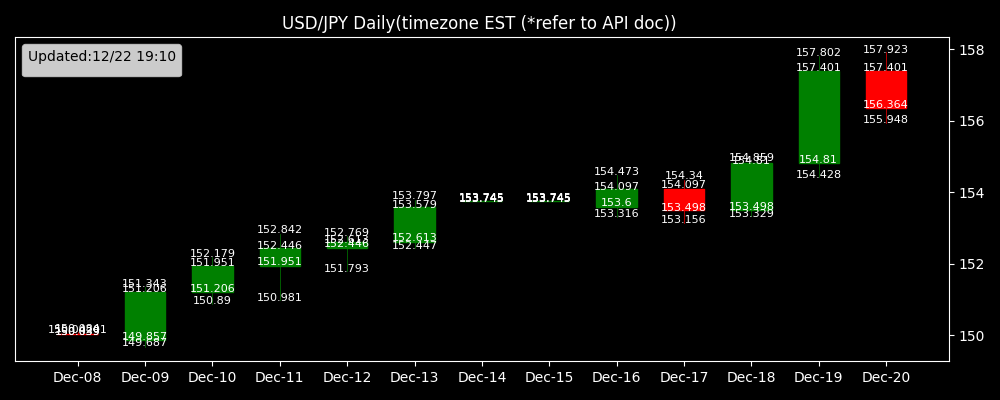
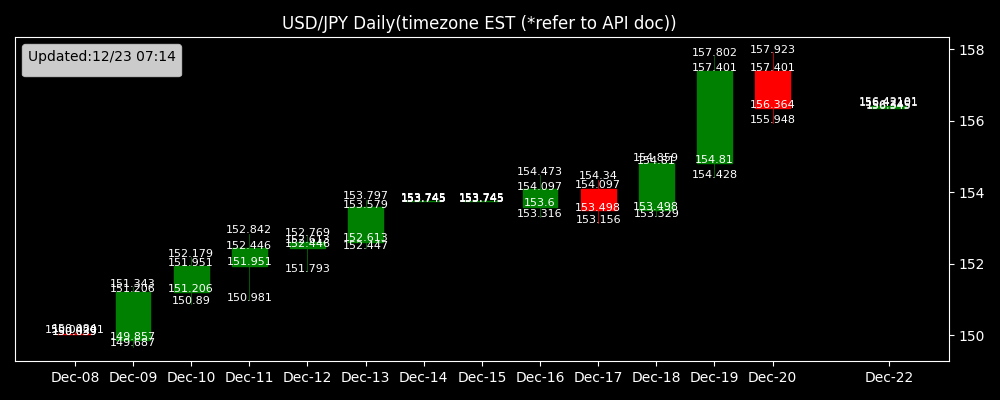
deploy: f38e8990050a8eed99aa18ff8d22eba5ad35ea92

diff --git a/docs/src/dashboard/marketinfo.html b/docs/src/dashboard/marketinfo.html
@@ -14,25 +14,12 @@
     </style>
 </head>
 <body>
-    <h3> 概況 (更新： 12/22 19:10 ) </h3>
-    <p>以下に示す為替の動向は、2024年12月8日から12月20日までの期間にわたる市場の変動を分析したものです。
+    <h3> 概況 (更新： 12/23 07:14 ) </h3>
+    <p>為替の状況を分析すると、2024年12月初旬から中旬にかけて、徐々に上昇するトレンドが見受けられる。この期間の始めには150.039であった為替レートは、最終的に156.42101まで上昇している。特に12月19日と20日の間で大きなボラティリティが見られ、157.923まで上昇した後、一旦156.364に戻っている。この間の交易量も高めであり、市場参加者が多かったことが推察される。
 
-1. **全体のトレンド**:
-   - この期間中、為替レートは150.039から始まり、最終的に156.364で終わっています。総じて上昇トレンドが見られますが、日々の変動には明確な上昇と下落の波が交錯しています。
+この為替の上昇にはいくつかの要因が関連している可能性がある。グローバルな経済ニュースによると、年末にかけて多くの国で金融政策の変化が起こっており、特に主要中央銀行の政策変更が為替に影響している可能性がある。また、国際的な貿易の動向や地政学的リスクの変化が投資家心理に影響を与え、市場にボラティリティをもたらしているかもしれない。
 
-2. **取引量**:
-   - 特に12月12日に取引量が大きく増加しており(750,356)、これが市場に何らかの影響を与えた可能性があります。その後の数日は比較的取引量が少なく、徐々に落ち着きを取り戻しています。
-
-3. **注目の値動き**:
-   - 12月19日と20日には、高値と低値の差が大きくなっており、市場におけるボラティリティが上昇しています。この時期には重要な経済指標の発表や地政学的なイベントが影響を与えた可能性があります。
-
-4. **外部要因**:
-   - 年末に向けて、世界的な経済状況の変化や、主要国の中央銀行の金融政策が為替レートに影響を及ぼしていると考えられます。また、20日に見られる高いボラティリティは、クリスマス休暇を前にしたポジション調整かもしれません。
-
-5. **今後の展望**:
-   - 短期的には、年末の流動性の低下が見られる可能性があり、これがボラティリティを一時的に影響させるかもしれません。また、2025年初頭に注目される政策発表や経済データが、このトレンドの転換点となる可能性を示唆しています。
-
-この分析は過去のデータに基づくものであり、実際の市場の動きは予測が難しいことを認識する必要があります。ニュースの更新や経済指標の発表を常に参照し、市場の変動に対する理解を深めることが重要です。</p>
+加えて、12月の中旬には、交易量が急増しており、これは年末のポジション調整や確定申告に伴う動きが背景にあるかもしれない。このような短期的な市場の動きは、不確実性があるものの、関連する要因を考慮しながらリスク管理が求められる状況である。</p>
 
     <p>Text generated from ChatGPT API.</p>
 

diff --git a/docs/src/dashboard/forecast_text.html b/docs/src/dashboard/forecast_text.html
@@ -5,10 +5,10 @@
     
 </head>
 <body>
-    <h3>今日の天気 (12-22 Sun)</h3>
-    <p>12月22日の天気をお知らせします。この日の気温は、一日を通して4.0°Cから9.6°Cの間で変動し、降水はありません。天候は概ね晴れで、午後一時的に曇ることがあります（午後15時と16時の間）。日照時間は8時間44分ほどと予想されています。
+    <h3>今日の天気 (12-23 Mon)</h3>
+    <p>東京の2024年12月23日の天気は、晴天で降雨の心配はありません。日中の最高気温は約9.1℃で、最低気温は約2.7℃です。日照時間は約8時間43分です。
 
-UV指数の最大値は3.1で、これは中程度のレベルです。この指数から判断すると、日傘を使用するかどうかは個人の肌の感受性や日中の外出時間によりますが、特に午後は日差し対策を考慮しても良いかもしれません。</p>
-    (更新：12/22 19:10)
+UVインデックスは3.2で、これは中程度の紫外線レベルを示しています。このレベルでは日傘を使用することで紫外線対策ができますので、外出する際は日傘を持参することをおすすめしますが、必須ではありません。特に午前10時から午後4時までの間は注意が必要です。</p>
+    (更新：12/23 07:14)
 
 </html>
